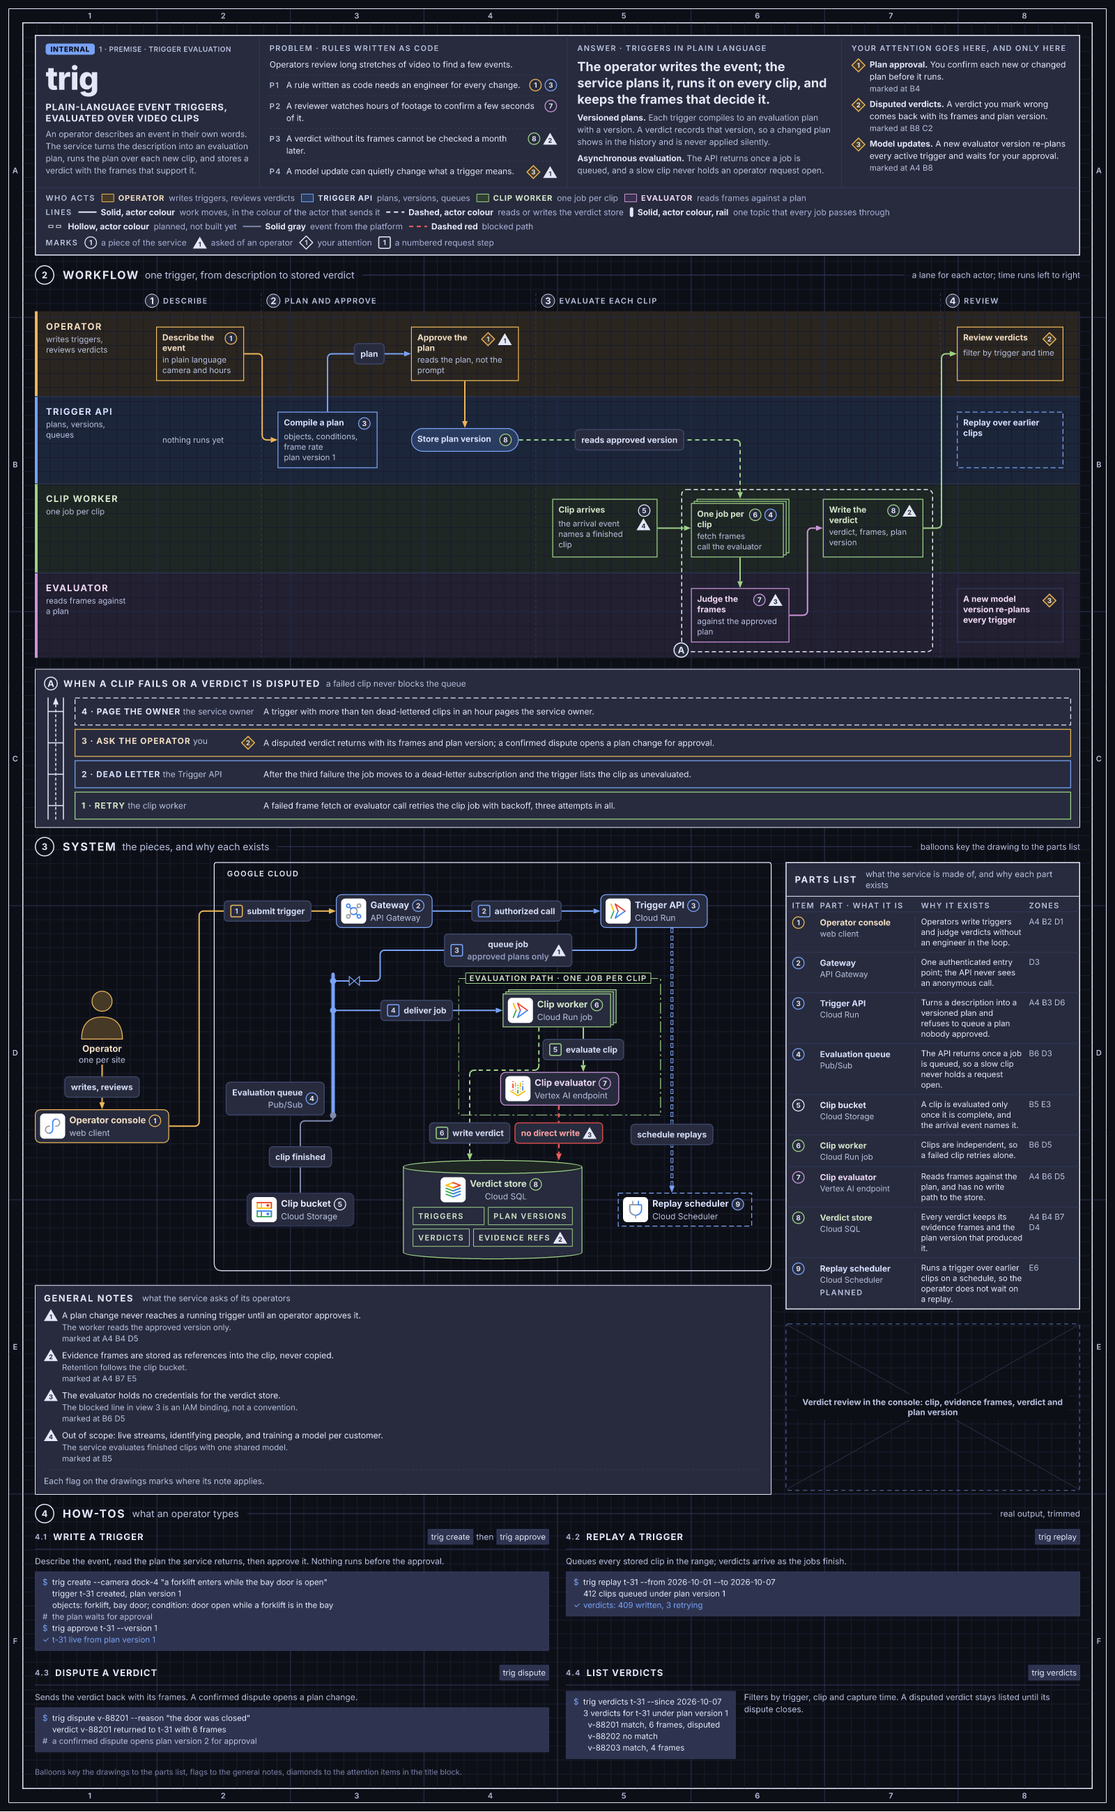
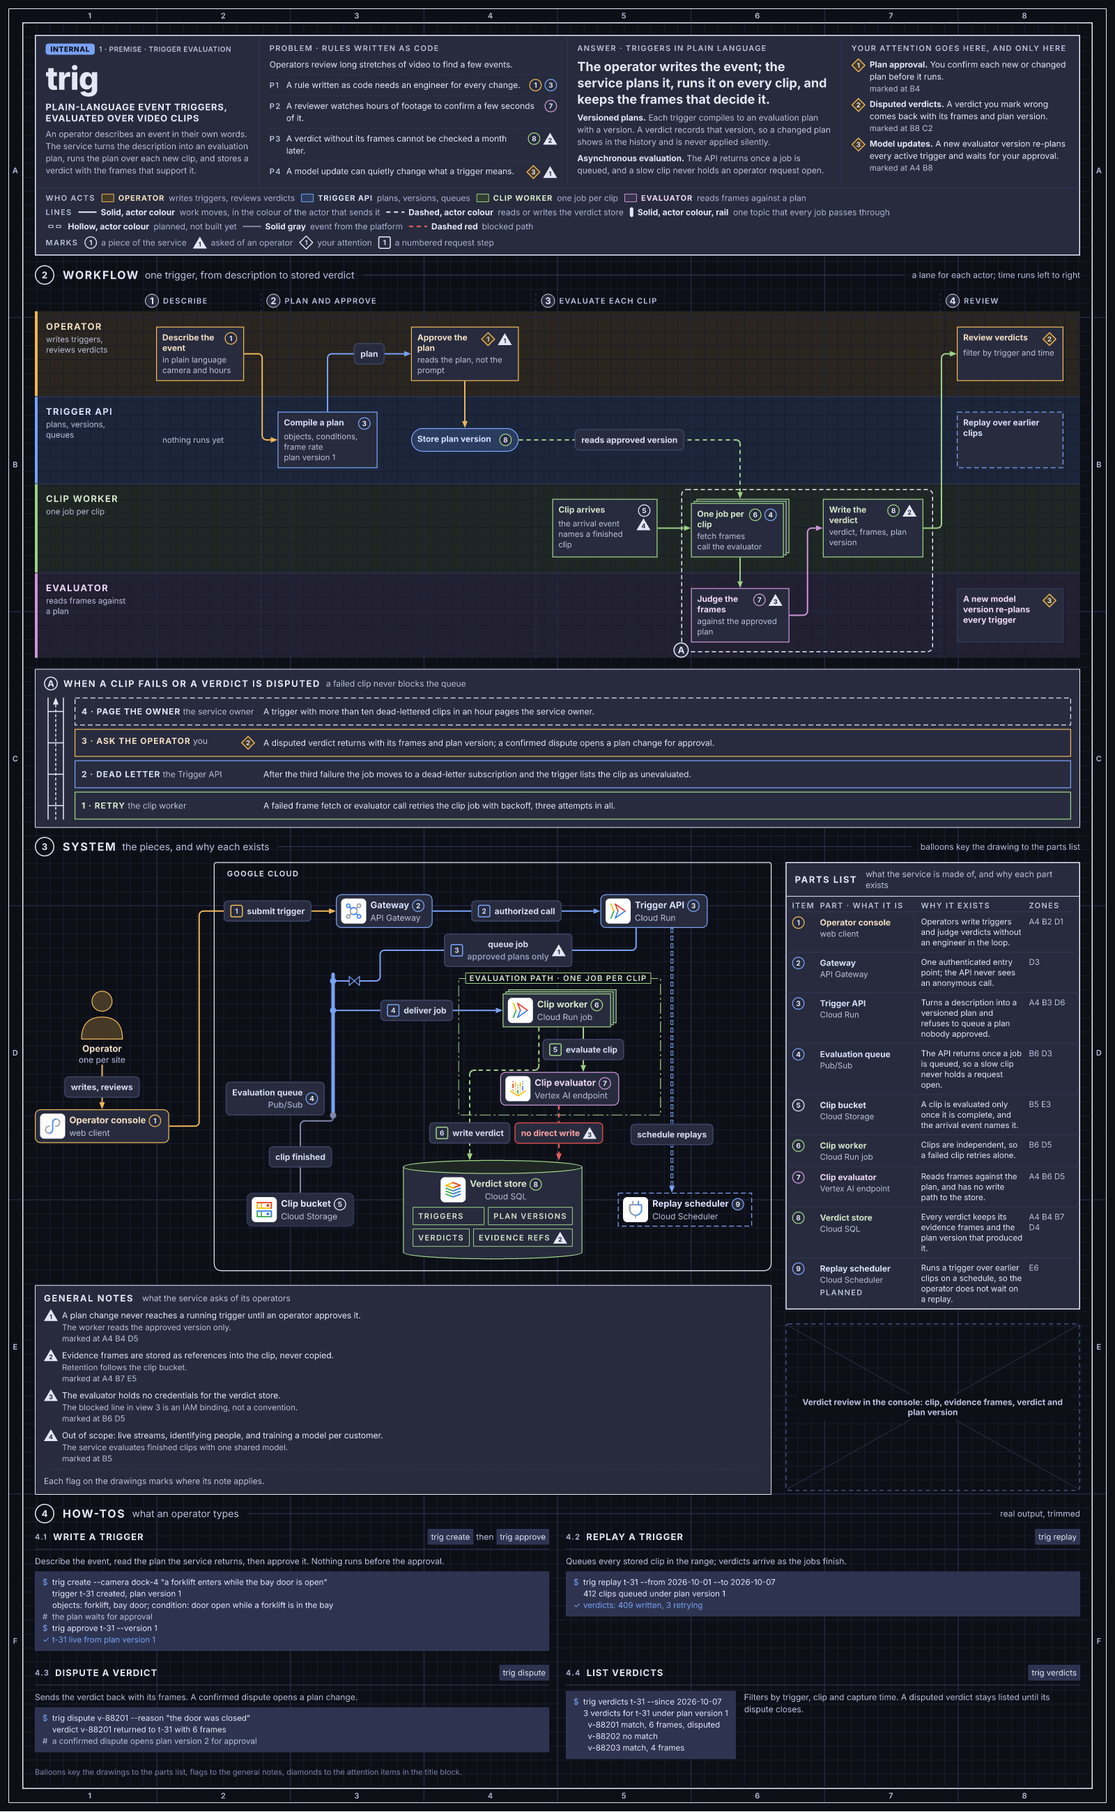
fix(examples): draw the onepager's steps opaque on transparent lanes
The lanes of a design sheet are a wash and the boxes on them are paper: the onepager sets step_fill cell, so neither the wash nor the drafting grid shows through a Step, and a test holds every non-text Step of the example to an opaque front over its washed lane in six themes.

diff --git a/crates/stencil-render/tests/phases_paint.rs b/crates/stencil-render/tests/phases_paint.rs
@@ -476,3 +476,62 @@ fn wire_paints_a_tint_fill_and_a_washed_band_white() {
     }
     assert!(examined > 20, "examined {examined}");
 }
+
+/// Onepager as authored, in every theme a design sheet is judged in: each lane is a wash
+/// and each Step on it paints an opaque front, so neither the wash nor the grid shows
+/// through a box.
+#[test]
+fn the_onepager_paints_its_steps_opaque_over_the_lane_wash() {
+    let document: Value =
+        serde_json::from_str(include_str!("../../../examples/onepager.json")).unwrap();
+    let lanes: Vec<String> = document["body"][0]["children"][0]["lanes"]
+        .as_array()
+        .unwrap()
+        .iter()
+        .map(|lane| lane.as_str().unwrap().to_string())
+        .collect();
+    let mut examined = 0;
+    for theme_name in ["center", "paper", "dusk", "clear", "clear-dark", "wire"] {
+        let theme = common::theme(theme_name);
+        let rendered = render(document.clone(), theme_name);
+        let svg = common::parse_xml(&rendered.svg.svg);
+        let bands = parts(node(&rendered.geometry, PHASES), PartName::LaneBand);
+        assert_eq!(bands.len(), lanes.len(), "{theme_name}");
+        let band_rects = shapes(common::group(&svg, PHASES));
+        for (index, (pointer, slot, look, _)) in steps(&document).into_iter().enumerate() {
+            if look == StepLook::Text {
+                continue;
+            }
+            let lane = document["body"][0]["children"][0]["children"][index]["lane"]
+                .as_str()
+                .unwrap();
+            let band = bands[lanes.iter().position(|name| name == lane).unwrap()];
+            let step = node(&rendered.geometry, &pointer).bounds;
+            assert!(
+                step.x >= band.x
+                    && step.right() <= band.right()
+                    && step.y >= band.y
+                    && step.bottom() <= band.bottom(),
+                "{theme_name} {pointer}: off its lane band"
+            );
+            let wash = lane_band(&theme, slot);
+            assert!(
+                band_rects.iter().any(|element| element.has_tag_name("rect")
+                    && element.attribute("y").unwrap().parse::<f32>().unwrap() == band.y
+                    && element.attribute("fill") == Some(wash.as_str())),
+                "{theme_name} {pointer}: lane {lane} is not washed"
+            );
+            let front = *common::children_named(common::group(&svg, &pointer), "rect")
+                .last()
+                .unwrap();
+            let fill = front.attribute("fill").unwrap();
+            assert_ne!(fill, "none", "{theme_name} {pointer} {look:?}: no fill");
+            assert!(
+                front.attribute("fill-opacity").is_none() && front.attribute("opacity").is_none(),
+                "{theme_name} {pointer}: a translucent front"
+            );
+            examined += 1;
+        }
+    }
+    assert_eq!(examined, 6 * 11);
+}

diff --git a/docs/SPEC.md b/docs/SPEC.md
@@ -5236,7 +5236,7 @@ pub struct SheetGrid { pub minor: Color, pub major: Color }
    - Step fills. A Step's fill is `Step::fill_under` its parent's `step_fill`: `tint` paints `tint.fill`, `cell` paints `sheet.cell`, `none` paints nothing, so the lane and the grid show through. Each look keeps its stroke whatever its fill: a box and a chip stroke `tint.wire`, a note `sheet.rule`, a planned Step its dashed `tint.wire`, and a planned Step with a fill paints it under the dashes. A stack's front takes the fill; a filled back sheet is a rect in the fill stroked in `tint.wire`, which the nearer sheet covers in part; an unfilled back sheet draws only its edges that stand clear of the nearer sheet, up its left side from the nearer sheet's top, along its top, down its right side and back to the nearer sheet's right edge, so no back edge crosses the front and the three sheets still read as a stack. A text look draws no box and takes no fill (`step-text-fill`). On a tint fill a Step's lines take `tint.ink`; on `cell` and `none` they take `ink.secondary`. Absent everywhere, each look keeps the fill it had before the field: cell for box and stack, tint for chip, none for note and planned, so a figure that sets neither field draws as before. Phase heads stroke `sheet.frame` at 1 px over `sheet.cell`, phase titles take `sheet.label_ink`, and lane rules and phase separators (dash `4 4`) take `sheet.rule`. A by-actor legend sample draws its line's pattern and width in `sheet.frame` with no end dot; its drawn label is `drawn_legend_entry_label`: `<Pattern>, actor colour` under `tint_cue: color` and `<Pattern> line, by actor` under `line`, where the pattern is `Solid` for a solid line and the dash role's word for a dash line, so under wire every strip entry differs in text and line. Wire paints every slot as white and `#222222`, so actors there are told apart by their lane names, the Who acts row and the description.
 5. On a sheet the title takes `motto` or `sheet_title` in its style's default ink, the kicker `sheet_kicker` in `sheet.label_ink` and the lede `block_body` in `ink.secondary`. Every Box on a sheet sets its label in `sheet_label`, small letterspaced capitals, chosen at layout (`Builder.sheet`), so no page without a sheet moves. A frame-role Box (gcp's `gcp`) strokes `sheet.frame` at 1.25 px (`SHEET_BOX_BORDER_PX`, whatever the grammar's width) in the grammar's pattern, leaves its body and bar unfilled with no rule under the bar, and sets its label in `sheet.frame`; a boundary-role Box strokes `sheet.rule` at 1.25 px with no fill, its label in `sheet.label_ink`; group and tile Boxes keep their tone paint.
 6. Grid. When the role sets a grid, the writer draws it inside `Grid` on the zone edges of section 14.4 rule 3, read from `sheet_zone_edges`, the function the reference ticks read: a 1.5 px line in `grid.major` on each of the 7 inner column edges and 5 inner row edges, so every tick continues into a major line, and 1 px lines in `grid.minor` cutting each zone into n equal parts per axis, n the whole number nearest the zone's size over 20 px and at least 1. Zones of one axis are equal, so the minor pitch is one value per axis and stays near 20 px. The lines go as one path per colour, right after `Border`, under every other sheet surface, and again, cut to each washed lane band, right after that band (rule 4). The major line is half a pixel heavier than a minor one so the zones a description names (`B2-C5`) read on the drawing. `the_onepager_grid_lies_on_its_reference_zones` and `a_short_narrow_sheet_grid_lies_on_its_reference_zones` in `crates/stencil-render/tests/sheet_grid.rs` hold every tick on a major line, every major line on a tick and each zone's minors evenly spaced, to 0.01 px.
-7. Every new shape is a `rect`, `circle`, `line` or `path`. `no_renderer_source_names_a_color_literal` holds. Tests: `every_designed_theme_sets_the_sheet_role`, `a_theme_without_sheet_roles_draws_the_derived_colours`, `every_sheet_part_has_a_paint_row`, `wire_paints_only_white_fills_and_two_inks` with onepager under wire (every fill white or the ink, every stroke the ink except a Frame's placeholder diagonal, every text one of the two inks), `measured_json_is_identical_and_svg_differs_across_themes` over onepager, and role coverage with onepager among its figures, so every `sheet.*` leaf changes the drawing. `a_sheet_draws_its_frame_block_and_box_in_light_strokes` and `on_a_sheet_the_kicker_takes_the_label_ink_and_the_lede_the_secondary_ink` hold the widths and inks of rules 3 and 5 in every designed theme. `actor_strokes_are_told_apart_by_colour_or_by_text` holds onepager's four actor outlines a CIE76 delta E of at least 20 apart in the colour themes and equal under wire, `actor_wires_stand_apart_from_deny_and_sheet_chrome` holds every slot's wire 20 from `deny.color`, `sheet.frame` and `sheet.rule` in those themes, `a_by_actor_sample_draws_in_the_frame_ink` and `wire_labels_a_by_actor_entry_by_line` hold rule 4's legend samples and labels. `crates/stencil-render/tests/phases_paint.rs` holds rule 4's bands and fills: `a_washed_lane_draws_its_band_then_the_grid_over_it`, `a_lane_with_band_none_draws_no_band_and_keeps_its_bar_and_rules`, `each_step_fill_paints_the_front_of_every_look`, `a_step_fill_overrides_the_phases_step_fill`, `an_unfilled_stack_draws_its_back_sheets_as_the_edges_clear_of_the_front`, `step_lines_take_the_actor_ink_on_a_tint_fill_only` and `wire_paints_a_tint_fill_and_a_washed_band_white`; `the_description_names_a_lane_band_and_a_step_fill_that_differ_from_the_look` in `crates/stencil-render/tests/describe.rs` holds the description's wording.
+7. Every new shape is a `rect`, `circle`, `line` or `path`. `no_renderer_source_names_a_color_literal` holds. Tests: `every_designed_theme_sets_the_sheet_role`, `a_theme_without_sheet_roles_draws_the_derived_colours`, `every_sheet_part_has_a_paint_row`, `wire_paints_only_white_fills_and_two_inks` with onepager under wire (every fill white or the ink, every stroke the ink except a Frame's placeholder diagonal, every text one of the two inks), `measured_json_is_identical_and_svg_differs_across_themes` over onepager, and role coverage with onepager among its figures, so every `sheet.*` leaf changes the drawing. `a_sheet_draws_its_frame_block_and_box_in_light_strokes` and `on_a_sheet_the_kicker_takes_the_label_ink_and_the_lede_the_secondary_ink` hold the widths and inks of rules 3 and 5 in every designed theme. `actor_strokes_are_told_apart_by_colour_or_by_text` holds onepager's four actor outlines a CIE76 delta E of at least 20 apart in the colour themes and equal under wire, `actor_wires_stand_apart_from_deny_and_sheet_chrome` holds every slot's wire 20 from `deny.color`, `sheet.frame` and `sheet.rule` in those themes, `a_by_actor_sample_draws_in_the_frame_ink` and `wire_labels_a_by_actor_entry_by_line` hold rule 4's legend samples and labels. `crates/stencil-render/tests/phases_paint.rs` holds rule 4's bands and fills: `a_washed_lane_draws_its_band_then_the_grid_over_it`, `a_lane_with_band_none_draws_no_band_and_keeps_its_bar_and_rules`, `each_step_fill_paints_the_front_of_every_look`, `a_step_fill_overrides_the_phases_step_fill`, `an_unfilled_stack_draws_its_back_sheets_as_the_edges_clear_of_the_front`, `step_lines_take_the_actor_ink_on_a_tint_fill_only`, `wire_paints_a_tint_fill_and_a_washed_band_white` and `the_onepager_paints_its_steps_opaque_over_the_lane_wash`; `the_description_names_a_lane_band_and_a_step_fill_that_differ_from_the_look` in `crates/stencil-render/tests/describe.rs` holds the description's wording.
 
 8. Marks. `SheetRole` gains `mark_ink`, derived from `ink.primary`; the six designed themes set it to their primary ink, `cue/theme.cue` mirrors it and `validate_theme` checks its format. A balloon fills `sheet.cell` with a 1.3 px stroke in its key's actor wire, else `sheet.mark_ink`; a flag fills `sheet.mark_ink` with no stroke and its numeral in `sheet.cell`; a diamond fills its key's actor fill, else `sheet.cell`, with a 1.4 px stroke in the actor's wire, else `sheet.mark_ink`; balloon and diamond numerals take `ink.primary`. The key's actor is a part's (its node's for a part keyed by `node`) or an attention item's, never the carrier's (`SheetInk::KeyWire` and `KeyFill`). List glyphs and strip samples paint as these, a sample as unowned. A part's title takes its actor's ink, else `ink.primary`; what and note details `ink.secondary`; why and note texts `ink.primary`; captions, header cells, the planned word, the foot and where-used text `sheet.label_ink`. The parts list strokes `sheet.frame` at 1.5 px and the general notes at 1 px, both on `sheet.cell`; the title rule is `sheet.frame`, row and why rules `sheet.rule`, the foot rule dashed `3 3`. A flag is a path and a diamond a path; `wire_paints_only_white_fills_and_two_inks` allows one white text, a flag's numeral, inside a flag's box. `actor_wires_stand_apart_from_deny_and_sheet_chrome` holds every wire 20 from `sheet.mark_ink` too.
 9. Assembly paint. Every bend and hop of a patterned or planned sheet line is drawn: the line is cut into runs at each joint, an interval reaching 3.5 px (`JOINT_REACH_PX`) along the straight on both sides of a bend or hop, and a joint is drawn solid while the run after it starts in a gap, so each turn reads as one dash turning the corner under any dash phase. A planned line is solid and drawn hollow: each run twice, a casing in the line's wire 2 px wider than its role's width dashed 7 4, and a core in `sheet.paper` at the role's width dashed 5 6 and offset 1, so every dash is a closed outline and reads apart from a dashed line; its joints draw both strokes solid. A planned Item or Box draws its outline dashed in its wire with no fill. A store's lid takes `tint.fill`. The tab and valve fill with `sheet.paper`, so under wire the paper core of a planned line is the one white stroke. A rail draws in its line's wire at 5 px; a rail legend sample is a vertical bar 14 high and a planned sample the casing and core over the sample's length. A planned sample draws the most whole 7 4 dashes that fit its swatch, centred, so it ends on no partial dash. A planned entry is named by what it draws: `planned_label` turns the leading `Solid` of the canonical and drawn labels into `Hollow` (`Hollow, actor colour`, `Hollow blue`, `Hollow line, by actor` under wire), and a rail adds `, rail`; the description Key stays `<key>-planned`, as a band keys `-band`. A patterned run shorter than 1 px, left where a line leaves right beside a joint, is not drawn. Headings on outlines (person titles, compartment text, tab text) take `tint.ink`, which section 14.5 rule 2's rows already cover, so the theme reports gain no row.

diff --git a/crates/stencil-render/tests/fixtures/onepager.description.md b/crates/stencil-render/tests/fixtures/onepager.description.md
@@ -65,44 +65,44 @@ Mark kinds: a piece of the service (balloon, parts list); asked of an operator (
 
 Subtitle: one trigger, from description to stored verdict. Note: a lane for each actor; time runs left to right.
 
-- Phases: lanes Operator, Trigger API, Clip worker, Evaluator; phases 1 Describe, 2 Plan and approve, 3 Evaluate each clip, 4 Review; step fill none; detail A frames One job per clip, Judge the frames, Write the verdict. `A1-C8` `/body/0/children/0`
-  - Step Describe the event. Lane Operator, phase 1 Describe, column 1, fill none. `B1-B2` `/body/0/children/0/children/0`
+- Phases: lanes Operator, Trigger API, Clip worker, Evaluator; phases 1 Describe, 2 Plan and approve, 3 Evaluate each clip, 4 Review; step fill cell; detail A frames One job per clip, Judge the frames, Write the verdict. `A1-C8` `/body/0/children/0`
+  - Step Describe the event. Lane Operator, phase 1 Describe, column 1. `B1-B2` `/body/0/children/0/children/0`
     - Mark balloon 1 Operator console `B2` `/body/0/children/0/children/0/marks/0`
     - Line in plain language.
     - Line camera and hours.
   - Step nothing runs yet. Lane Trigger API, phase 1 Describe, column 1, look text. `B1-B2` `/body/0/children/0/children/1`
-  - Step Compile a plan. Lane Trigger API, phase 2 Plan and approve, column 1, fill none. `B2-B3` `/body/0/children/0/children/2`
+  - Step Compile a plan. Lane Trigger API, phase 2 Plan and approve, column 1. `B2-B3` `/body/0/children/0/children/2`
     - Mark balloon 3 Trigger API `B3` `/body/0/children/0/children/2/marks/0`
     - Line objects, conditions, frame rate.
     - Line plan version 1.
-  - Step Approve the plan. Lane Operator, phase 2 Plan and approve, column 2, fill none. `B3-B4` `/body/0/children/0/children/3`
+  - Step Approve the plan. Lane Operator, phase 2 Plan and approve, column 2. `B3-B4` `/body/0/children/0/children/3`
     - Mark diamond 1 Plan approval. `B4` `/body/0/children/0/children/3/marks/0`
     - Mark flag 1 A plan change never reaches a running trigger until an operator approves it. `B4` `/body/0/children/0/children/3/marks/1`
     - Line reads the plan, not the prompt.
   - Step Store plan version. Lane Trigger API, phase 2 Plan and approve, column 2, look chip, fill tint. `B3-B4` `/body/0/children/0/children/4`
     - Mark balloon 8 Verdict store `B4` `/body/0/children/0/children/4/marks/0`
-  - Step Clip arrives. Lane Clip worker, phase 3 Evaluate each clip, column 1, fill none. `B4-B5` `/body/0/children/0/children/5`
+  - Step Clip arrives. Lane Clip worker, phase 3 Evaluate each clip, column 1. `B4-B5` `/body/0/children/0/children/5`
     - Mark balloon 5 Clip bucket `B5` `/body/0/children/0/children/5/marks/0`
     - Line the arrival event names a finished clip.
       - Mark flag 4 Out of scope: live streams, identifying people, and training a model per customer. `B5` `/body/0/children/0/children/5/lines/0/marks/0`
-  - Step One job per clip. Lane Clip worker, phase 3 Evaluate each clip, column 2, look stack, fill none. `B6` `/body/0/children/0/children/6`
+  - Step One job per clip. Lane Clip worker, phase 3 Evaluate each clip, column 2, look stack. `B6` `/body/0/children/0/children/6`
     - Mark balloon 6 Clip worker `B6` `/body/0/children/0/children/6/marks/0`
     - Mark balloon 4 Evaluation queue `B6` `/body/0/children/0/children/6/marks/1`
     - Line fetch frames.
     - Line call the evaluator.
-  - Step Judge the frames. Lane Evaluator, phase 3 Evaluate each clip, column 2, fill none. `B6-C6` `/body/0/children/0/children/7`
+  - Step Judge the frames. Lane Evaluator, phase 3 Evaluate each clip, column 2. `B6-C6` `/body/0/children/0/children/7`
     - Mark balloon 7 Clip evaluator `B6` `/body/0/children/0/children/7/marks/0`
     - Mark flag 3 The evaluator holds no credentials for the verdict store. `B6` `/body/0/children/0/children/7/marks/1`
     - Line against the approved plan.
-  - Step Write the verdict. Lane Clip worker, phase 3 Evaluate each clip, column 3, fill none. `B6-B7` `/body/0/children/0/children/8`
+  - Step Write the verdict. Lane Clip worker, phase 3 Evaluate each clip, column 3. `B6-B7` `/body/0/children/0/children/8`
     - Mark balloon 8 Verdict store `B7` `/body/0/children/0/children/8/marks/0`
     - Mark flag 2 Evidence frames are stored as references into the clip, never copied. `B7` `/body/0/children/0/children/8/marks/1`
     - Line verdict, frames, plan version.
-  - Step Review verdicts. Lane Operator, phase 4 Review, column 1, fill none. `B7-B8` `/body/0/children/0/children/9`
+  - Step Review verdicts. Lane Operator, phase 4 Review, column 1. `B7-B8` `/body/0/children/0/children/9`
     - Mark diamond 2 Disputed verdicts. `B8` `/body/0/children/0/children/9/marks/0`
     - Line filter by trigger and time.
-  - Step Replay over earlier clips. Lane Trigger API, phase 4 Review, column 1, look planned. `B7-B8` `/body/0/children/0/children/10`
-  - Step A new model version re-plans every trigger. Lane Evaluator, phase 4 Review, column 1, look note. `B7-C8` `/body/0/children/0/children/11`
+  - Step Replay over earlier clips. Lane Trigger API, phase 4 Review, column 1, look planned, fill cell. `B7-B8` `/body/0/children/0/children/10`
+  - Step A new model version re-plans every trigger. Lane Evaluator, phase 4 Review, column 1, look note, fill cell. `B7-C8` `/body/0/children/0/children/11`
     - Mark diamond 3 Model updates. `B8` `/body/0/children/0/children/11/marks/0`
 - Ladder, detail A: When a clip fails or a verdict is disputed; a failed clip never blocks the queue; rung fill none. Frames One job per clip, Judge the frames, Write the verdict. `C1-C8` `/body/0/children/1`
   - Rung 1 (bottom) Retry, the clip worker; actor Clip worker: A failed frame fetch or evaluator call retries the clip job with backoff, three attempts in all. `C1-C8` `/body/0/children/1/rungs/0`

diff --git a/notes/ledger.md b/notes/ledger.md
@@ -79,3 +79,4 @@ Lessons for sessions in this repository. Every rule names what enforces it.
 | 2026-10-22 | The design's dark terminal fill in center read as four black slabs on the light sheet: a terminal takes the lightness of its paper, light on a light sheet and the fact fill on a dark one, and its inks are held by the contrast rows. | `every_designed_theme_sets_the_terminal_role` in crates/stencil-render/tests/how_to_paint.rs; the terminal rows of `quality_counts_match_section_13_5_for_every_builtin` |
 | 2026-10-22 | A terminal line kind told apart by colour alone does not read under wire, where output and ok lines share `#222222`; every kind but output draws its own prompt in the prompt column (`$`, `#`, `✓`, U+2713 in the bundled Inter Regular), and the description fence writes the same prompt, read from `TerminalKind::prompt`, so the fence matches the drawing. | `every_terminal_kind_draws_its_own_prefix_in_every_theme` in crates/stencil-render/tests/how_to_paint.rs; `the_heading_and_terminal_lie_as_drawn` in crates/stencil-layout/tests/how_to.rs |
 | 2026-10-22 | The drafting grid had its own 20 px pitch with a major line every 100 px, so no major line fell on a zone edge the frame ticks mark and the grid disagreed with the references the description prints (`B2-C5`). The grid and the references are one geometry: `sheet_zone_edges` gives the edges the ticks, the label cells and the grid read, a major line lies on every inner edge and the minors cut each zone into equal parts near 20 px. | `the_onepager_grid_lies_on_its_reference_zones` and `a_short_narrow_sheet_grid_lies_on_its_reference_zones` in crates/stencil-render/tests/sheet_grid.rs |
+| 2026-10-22 | On a design sheet the lanes are a transparent wash and the boxes on them are opaque: a Step drawn with no fill let the wash and the drafting grid show through every box of onepager while every check passed. The onepager sets `step_fill: cell`, and in a dark theme the cell reads as a panel on the wash. | `the_onepager_paints_its_steps_opaque_over_the_lane_wash` in crates/stencil-render/tests/phases_paint.rs, over center, paper, dusk, clear, clear-dark and wire |
